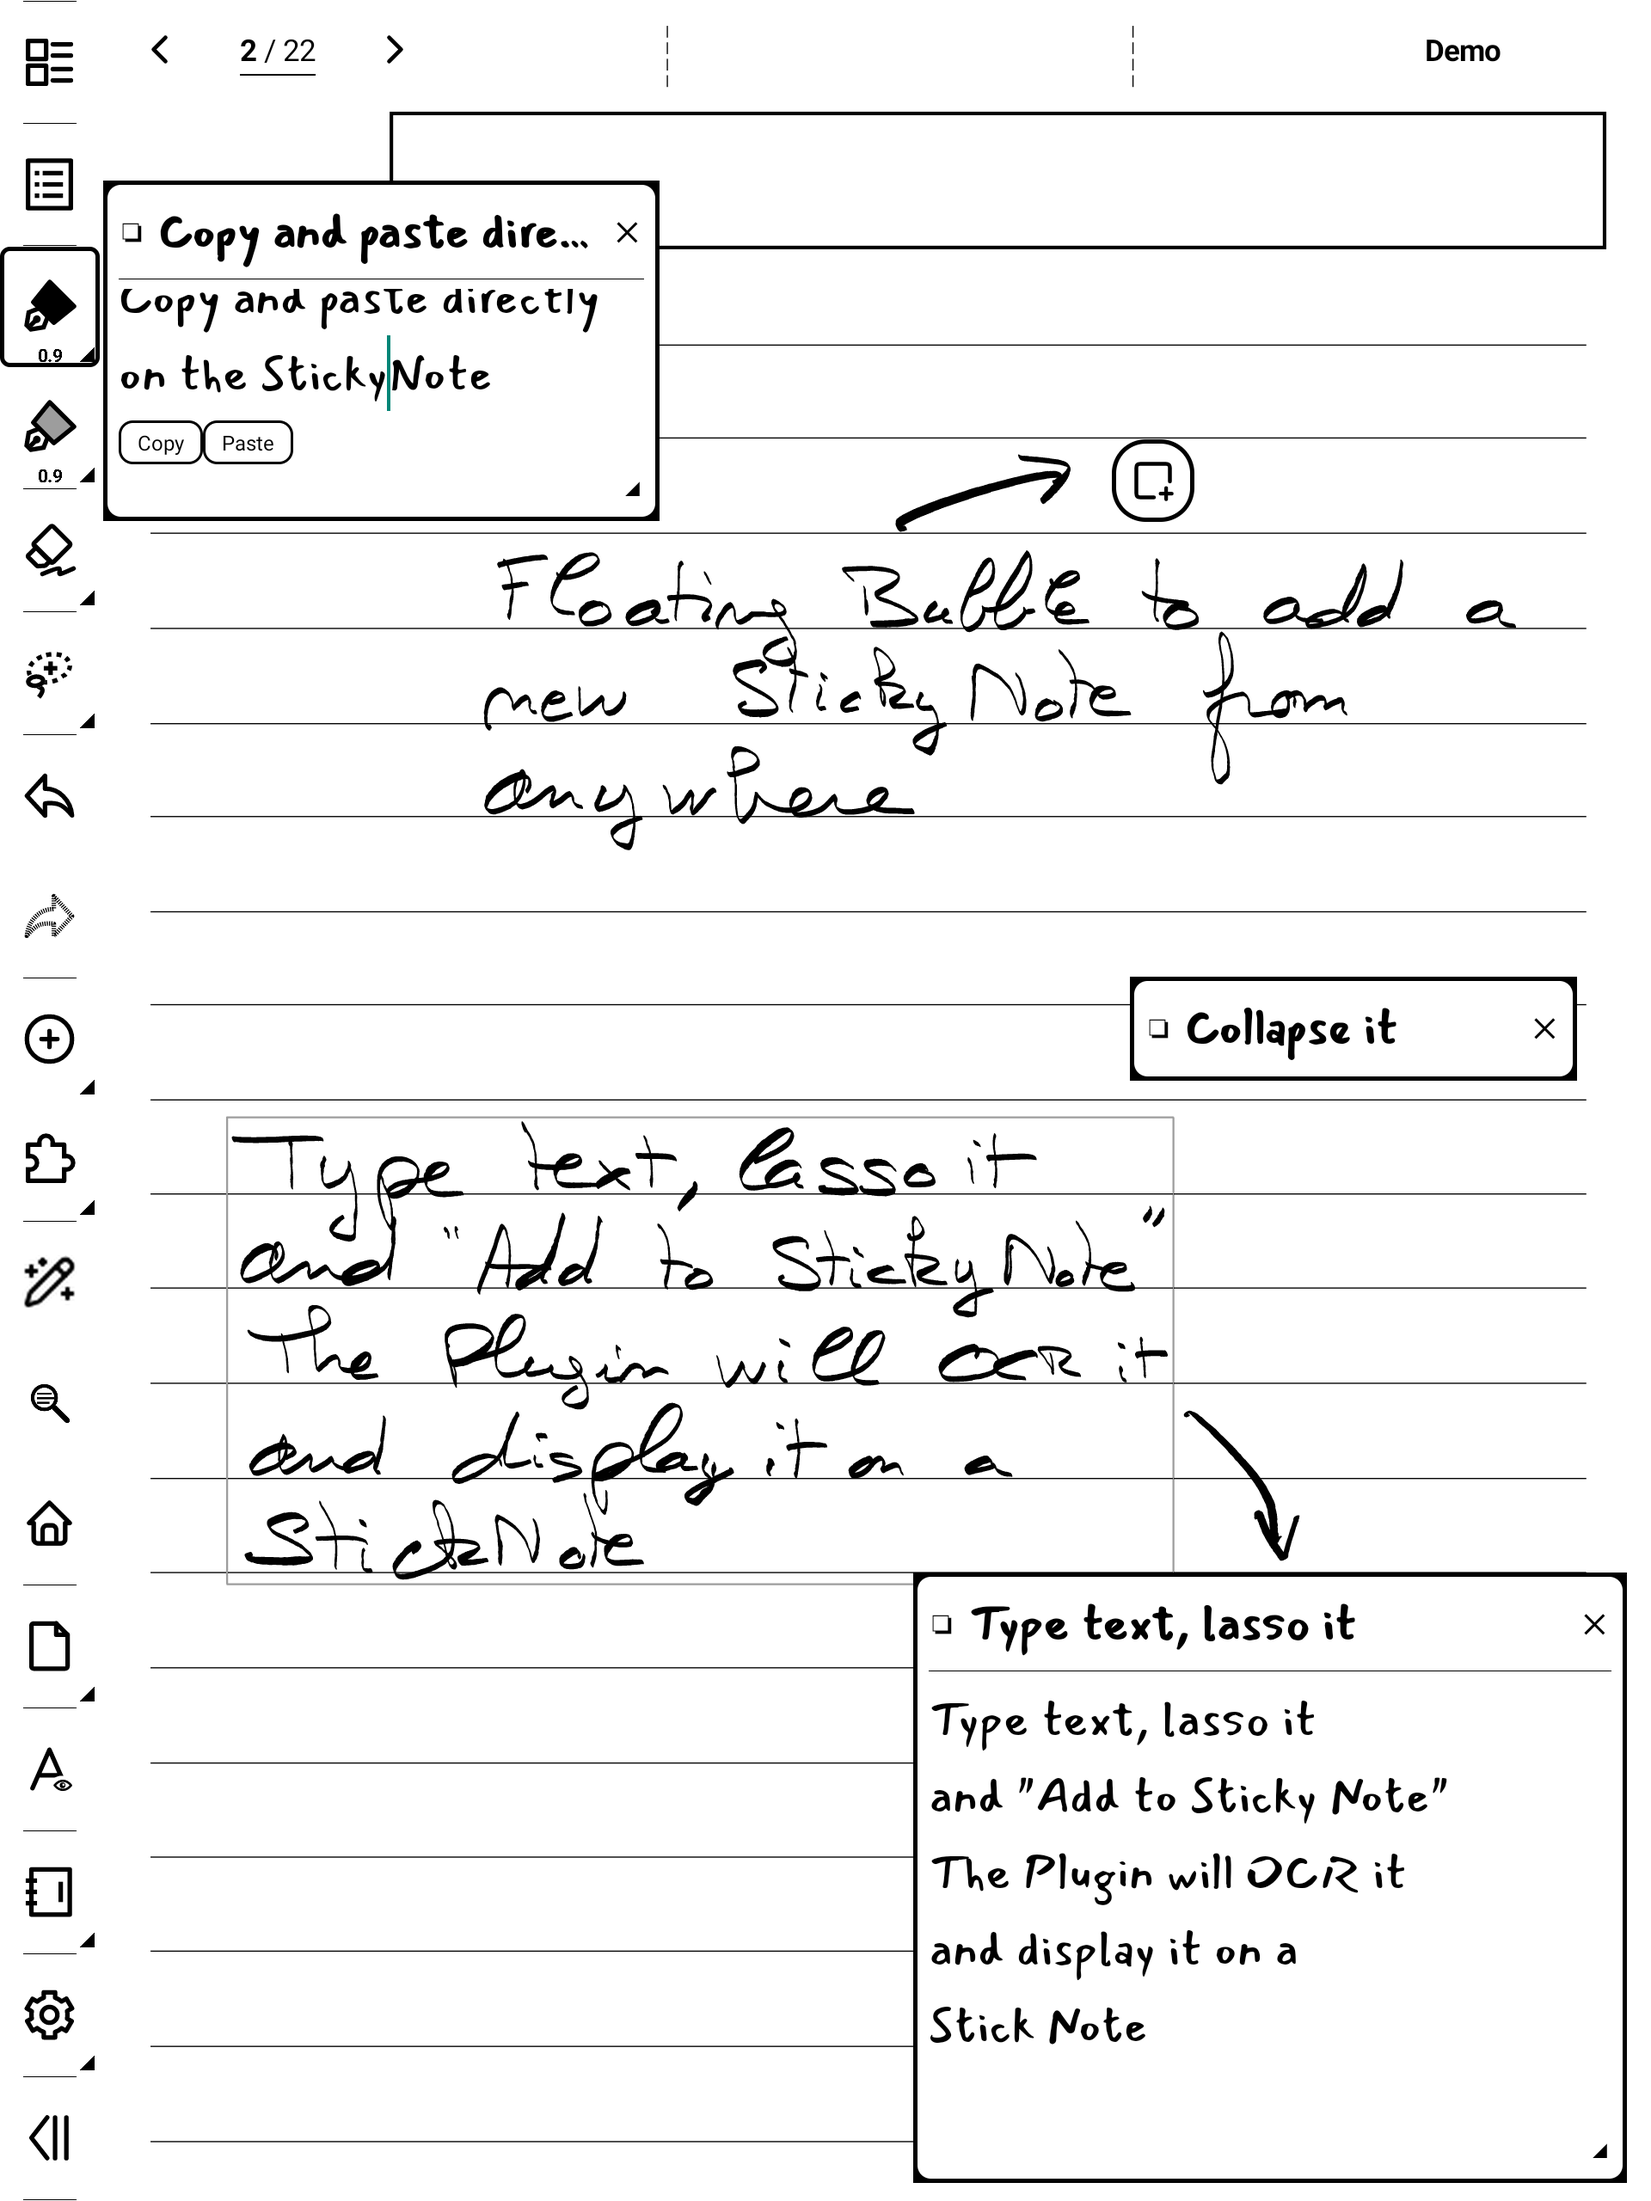
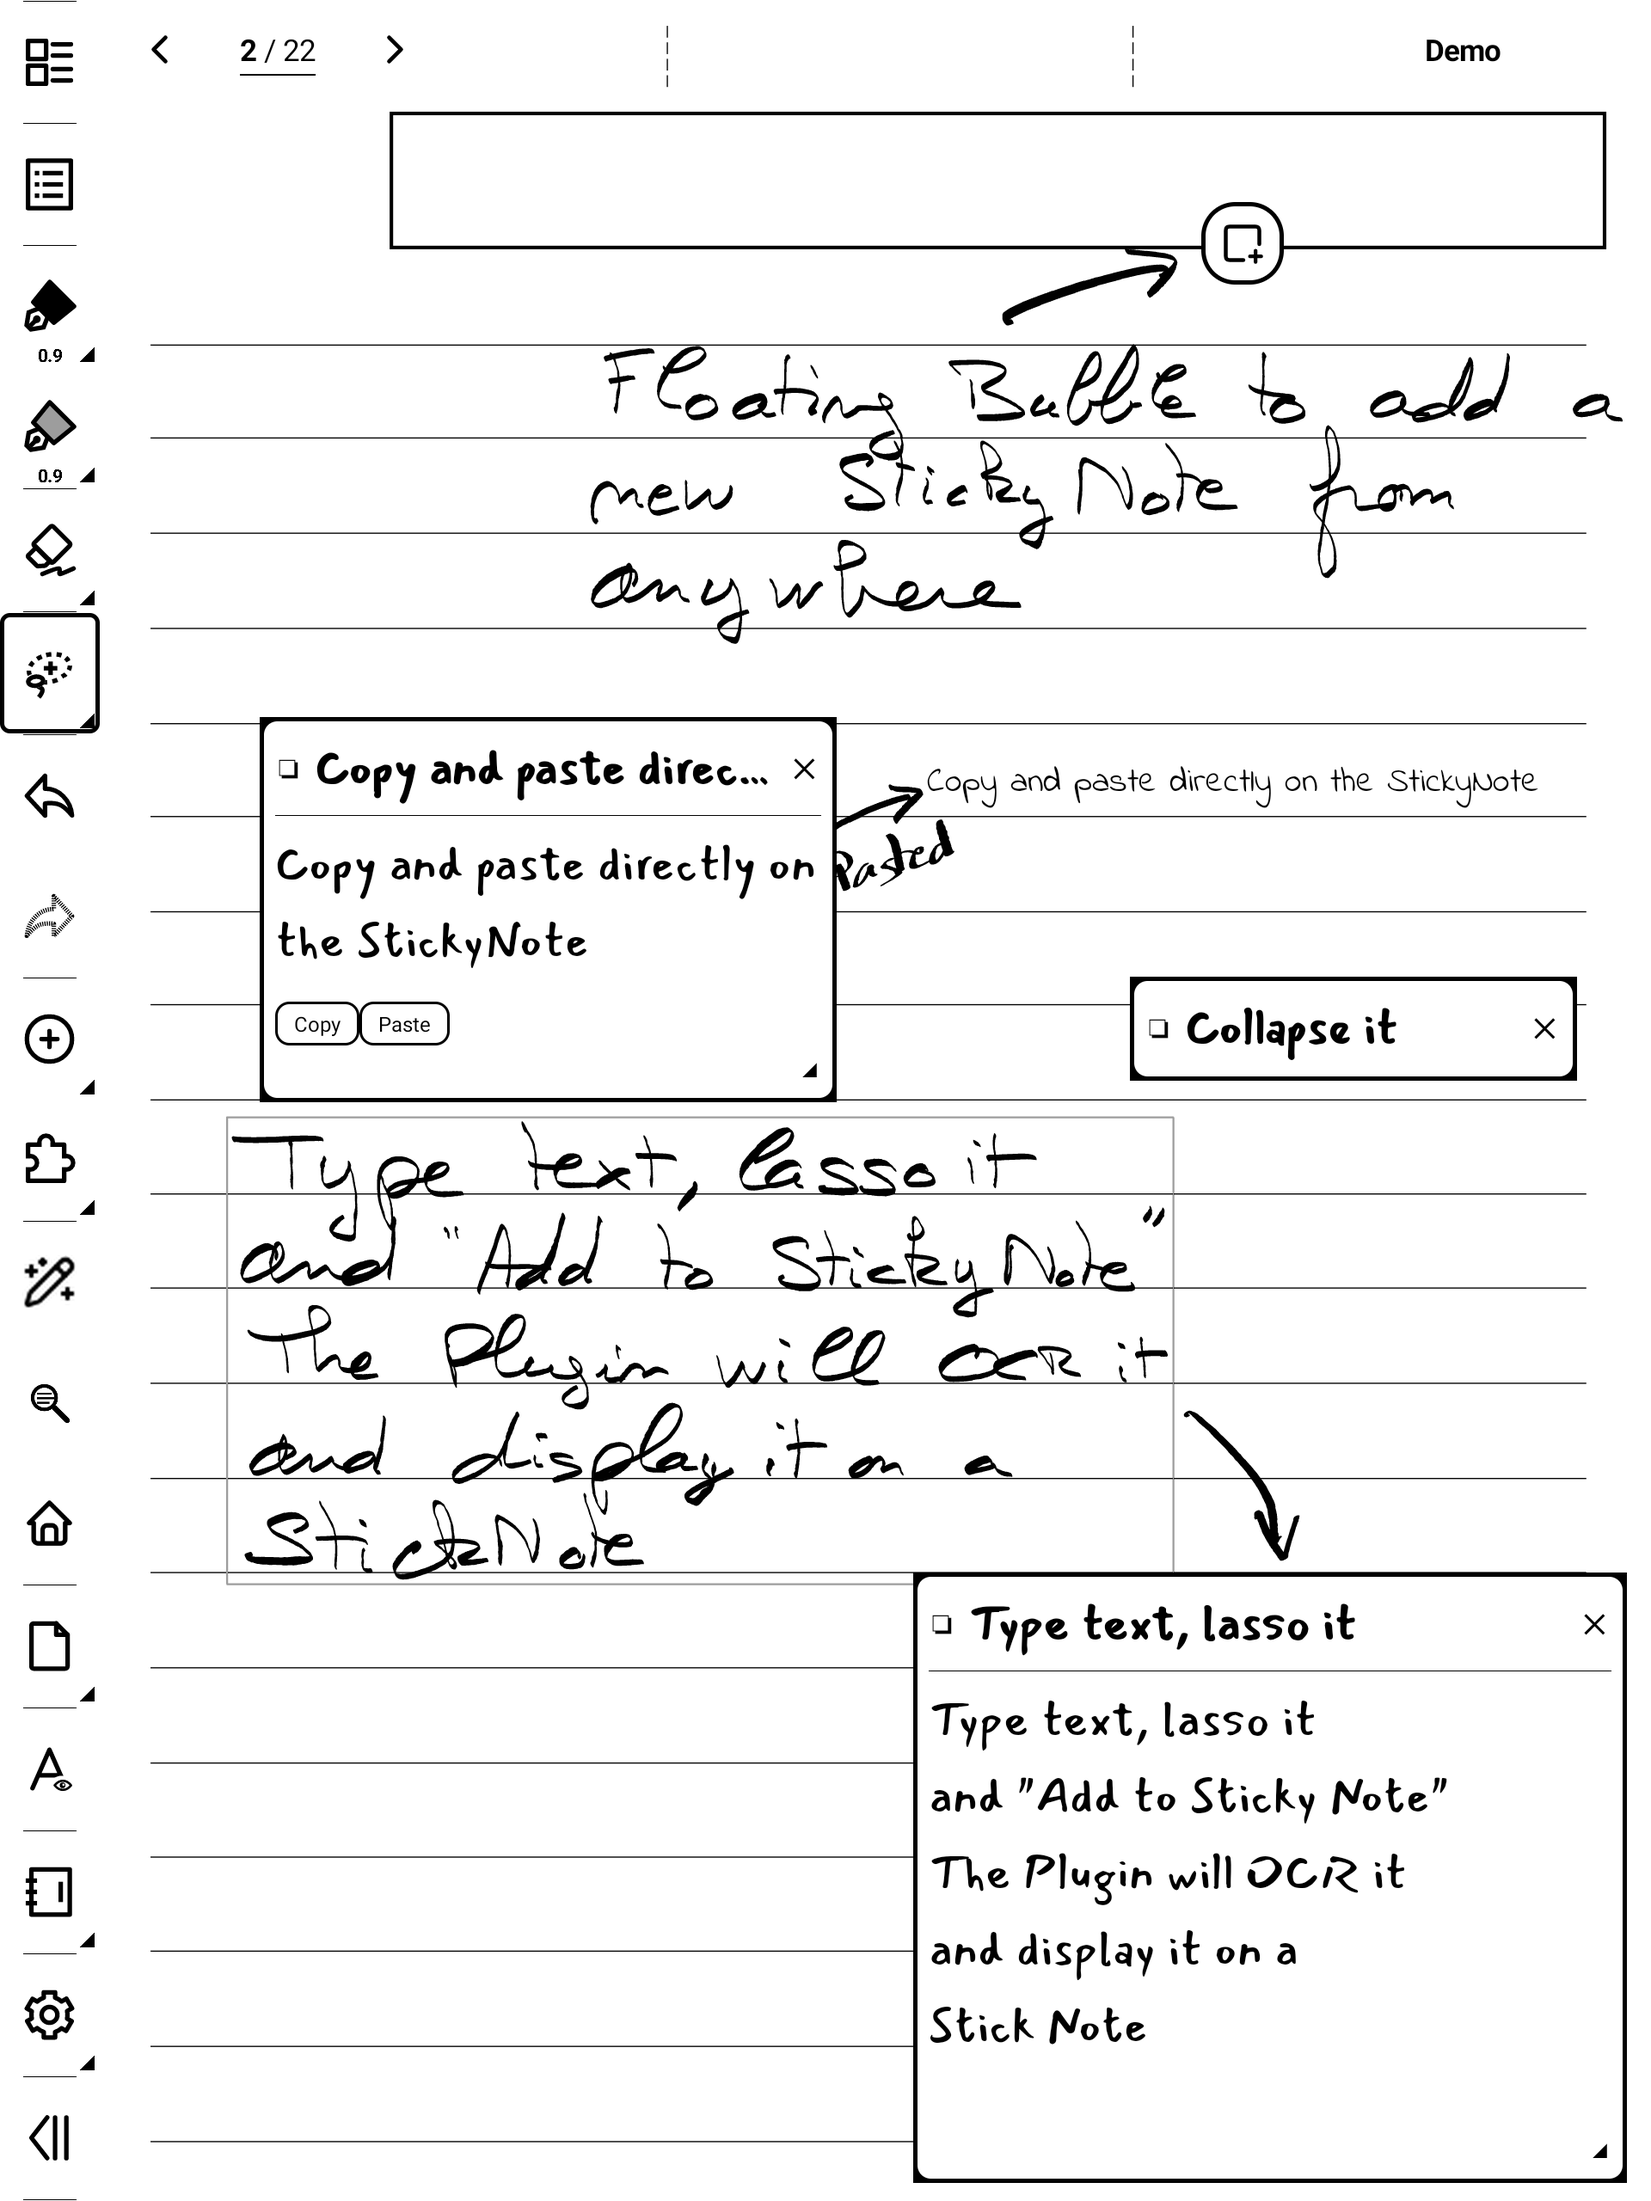
v1.6.1: the capture frame works on PDFs too; docs follow
SuperDashboard draws a box and a tick-box on a PDF to-do with insertGeometry, so
the "a document can't take our box" rule was wrong: it is TEXT boxes a PDF can't
hold, not drawn shapes. The frame now follows the setting everywhere, and both
docs say so.

Docs:
- the hero is the shot that carries the bubble annotation AND a note's text back
  on the page; the lasso capture moves to its own section
- the plugin's button is circled in the PDF selection toolbar — four plugins now
  sit there and ours is not obvious
- the uninstall note is no longer absolute: the plugin clears its own overlays on
  teardown, so it is a fallback, not the expected outcome

diff --git a/index.js b/index.js
@@ -313,7 +313,10 @@ async function handleLassoToSticky() {
     const textEls = (els || []).filter(e => e && !SHAPE_TYPES.has(e.type));
     // Grab the lasso bounds NOW (before we clear the selection) in case the user
     // enabled a "mark captured text" style below.
-    const frameStyle = isNote ? getFrameStyle() : 'off';
+    // The frame is a geometry polygon, and a document takes those just fine — it
+    // is only TEXT boxes a PDF can't hold. (SuperDashboard draws the same box on a
+    // PDF to-do.) So the frame follows the setting everywhere.
+    const frameStyle = getFrameStyle();
     let lassoRect = null;
     if (frameStyle !== 'off') {
       try {

diff --git a/USER_GUIDE.md b/USER_GUIDE.md
@@ -132,7 +132,6 @@ right now wears its icon in a black square. The list is **paged**: use
   with the lasso, optionally draw a thin box **on the note** around what you captured, so
   you can see at a glance what was turned into a sticky note. A single thin line you can
   erase in one stroke. **Grey 1** is darker, **Grey 2** lighter. Default **Off**.
-  *(Notebooks only — nothing is ever drawn on a PDF.)*
 - **Backup** — see §8.
 - **Sticky notes on screen** — how many may float at once: **8** by default, anything
   from **1 to 40**. Above 8 you'll see a warning: every floating note is a system overlay,
@@ -150,6 +149,8 @@ is recognised and dropped into a **new sticky note**. Recognition takes a few se
 
 This works in a **notebook** *and* on **handwritten annotations in a PDF or EPUB**.
 
+![Lassoed handwriting captured into a sticky note](docs/screenshots/lasso-capture.png)
+
 ![A handwritten PDF annotation captured as a sticky note](docs/screenshots/pdf-lasso-sticky.png)
 
 - The **lasso clears itself** once the text is captured. Your handwriting is untouched.
@@ -166,9 +167,9 @@ words, get three labels. No underline, nothing happens — an ordinary capture i
 ### PDF text → sticky note
 
 Select text in a **PDF or EPUB** with the reader's text tool, then tap
-**Add to StickyNote** in the selection toolbar that pops up.
+**Add to StickyNote** in the selection toolbar that pops up — the circled button below.
 
-![The selection toolbar in a PDF](docs/screenshots/pdf-selection.png)
+![The selection toolbar in a PDF, with the plugin's button circled](docs/screenshots/pdf-selection.png)
 
 No recognition needed — the text is already text, so the sticky note appears instantly.
 
@@ -177,8 +178,6 @@ Every captured note keeps a **Go to source** backlink to its file and page.
 ---
 
 ## 8. Getting text back out
-
-![A sticky note's text placed on the page](docs/screenshots/back-to-page.png)
 
 - **Insert in note** — puts the sticky note's text on the **notebook page underneath**, as
   an editable text box, using the **Font** and **Text size** from Settings. The Manager
@@ -211,13 +210,17 @@ cloud sync can't corrupt them. Backups and exports go to the visible
   pen has a hardware path into the notebook that a plugin overlay can't intercept. Two ways
   around it: drag with your **finger**, or first select the **eraser** or **lasso** tool —
   then you can drag and resize with the pen without leaving a stroke.
-- **Frames and Insert in note are notebook-only.** A PDF page can't take our box or our
-  text box; capturing *from* a PDF works fine.
+- **Insert in note is notebook-only.** A PDF page can't hold a text box. Capturing *from*
+  a PDF works fine, and so does the capture frame — that one is a drawn shape, which a
+  document accepts.
 - **Pasting from other apps is limited by Android.** Since Android 10 an app may only read
   the clipboard while it holds the screen's focus, which a plugin doesn't — so text copied
   in another app can't be pulled into a sticky note. Copying *out* works.
 - **Above 8 floating notes**, expect the device to get slower: each one is a system window.
-- **Uninstalling leaves the bubble on screen** — **restart the device** to clear it.
+- **If the bubble survives an uninstall**, restart the device. The plugin now clears its
+  own overlays when it is torn down — reinstalling no longer leaves anything behind — but
+  the bubble is a system window owned by the plugin host, so a teardown that never reaches
+  us can still strand it.
 - If a sticky note ever gets stuck after a firmware hiccup, force-stopping the plugin host
   (or restarting the device) clears any stray window.
 

diff --git a/README.md b/README.md
@@ -7,7 +7,7 @@ open. Your thoughts land on the page without ever leaving what you were doing.
 And it works the other way round: **lasso your handwriting** or **select text in a PDF**,
 and it becomes a sticky note that remembers where it came from.
 
-![Sticky notes floating over a notebook page](docs/screenshots/hero.png)
+![Sticky notes floating over a notebook page, and a note's text placed back on it](docs/screenshots/hero.png)
 
 ## What it does
 
@@ -21,23 +21,23 @@ and it becomes a sticky note that remembers where it came from.
 - **Find them again**: every captured note links back to its file and page; filter by
   label, search the lot.
 
-## Capture from a PDF
+## Capture from the page
 
-Select text with the reader's text tool, then tap SuperStickyNote in the selection
-toolbar that pops up.
+Lasso handwriting in a notebook and it is recognised straight into a new sticky note.
 
-![The selection toolbar in a PDF](docs/screenshots/pdf-selection.png)
+![Lassoed handwriting captured into a sticky note](docs/screenshots/lasso-capture.png)
 
-Handwritten annotations on a PDF work too — lasso them exactly as you would in a notebook.
+The same works on a **PDF**: lasso a handwritten annotation, or select the document's own
+text and tap SuperStickyNote in the selection toolbar (circled below).
+
+![The selection toolbar in a PDF, with the plugin's button circled](docs/screenshots/pdf-selection.png)
 
 ![A handwritten PDF annotation captured as a sticky note](docs/screenshots/pdf-lasso-sticky.png)
 
 ## Back to the page
 
 A sticky note isn't a dead end: its text goes back onto the notebook page as a real,
-editable text box.
-
-![A sticky note's text placed on the page](docs/screenshots/back-to-page.png)
+editable text box — the second half of the first picture above.
 
 ## The Manager
 
